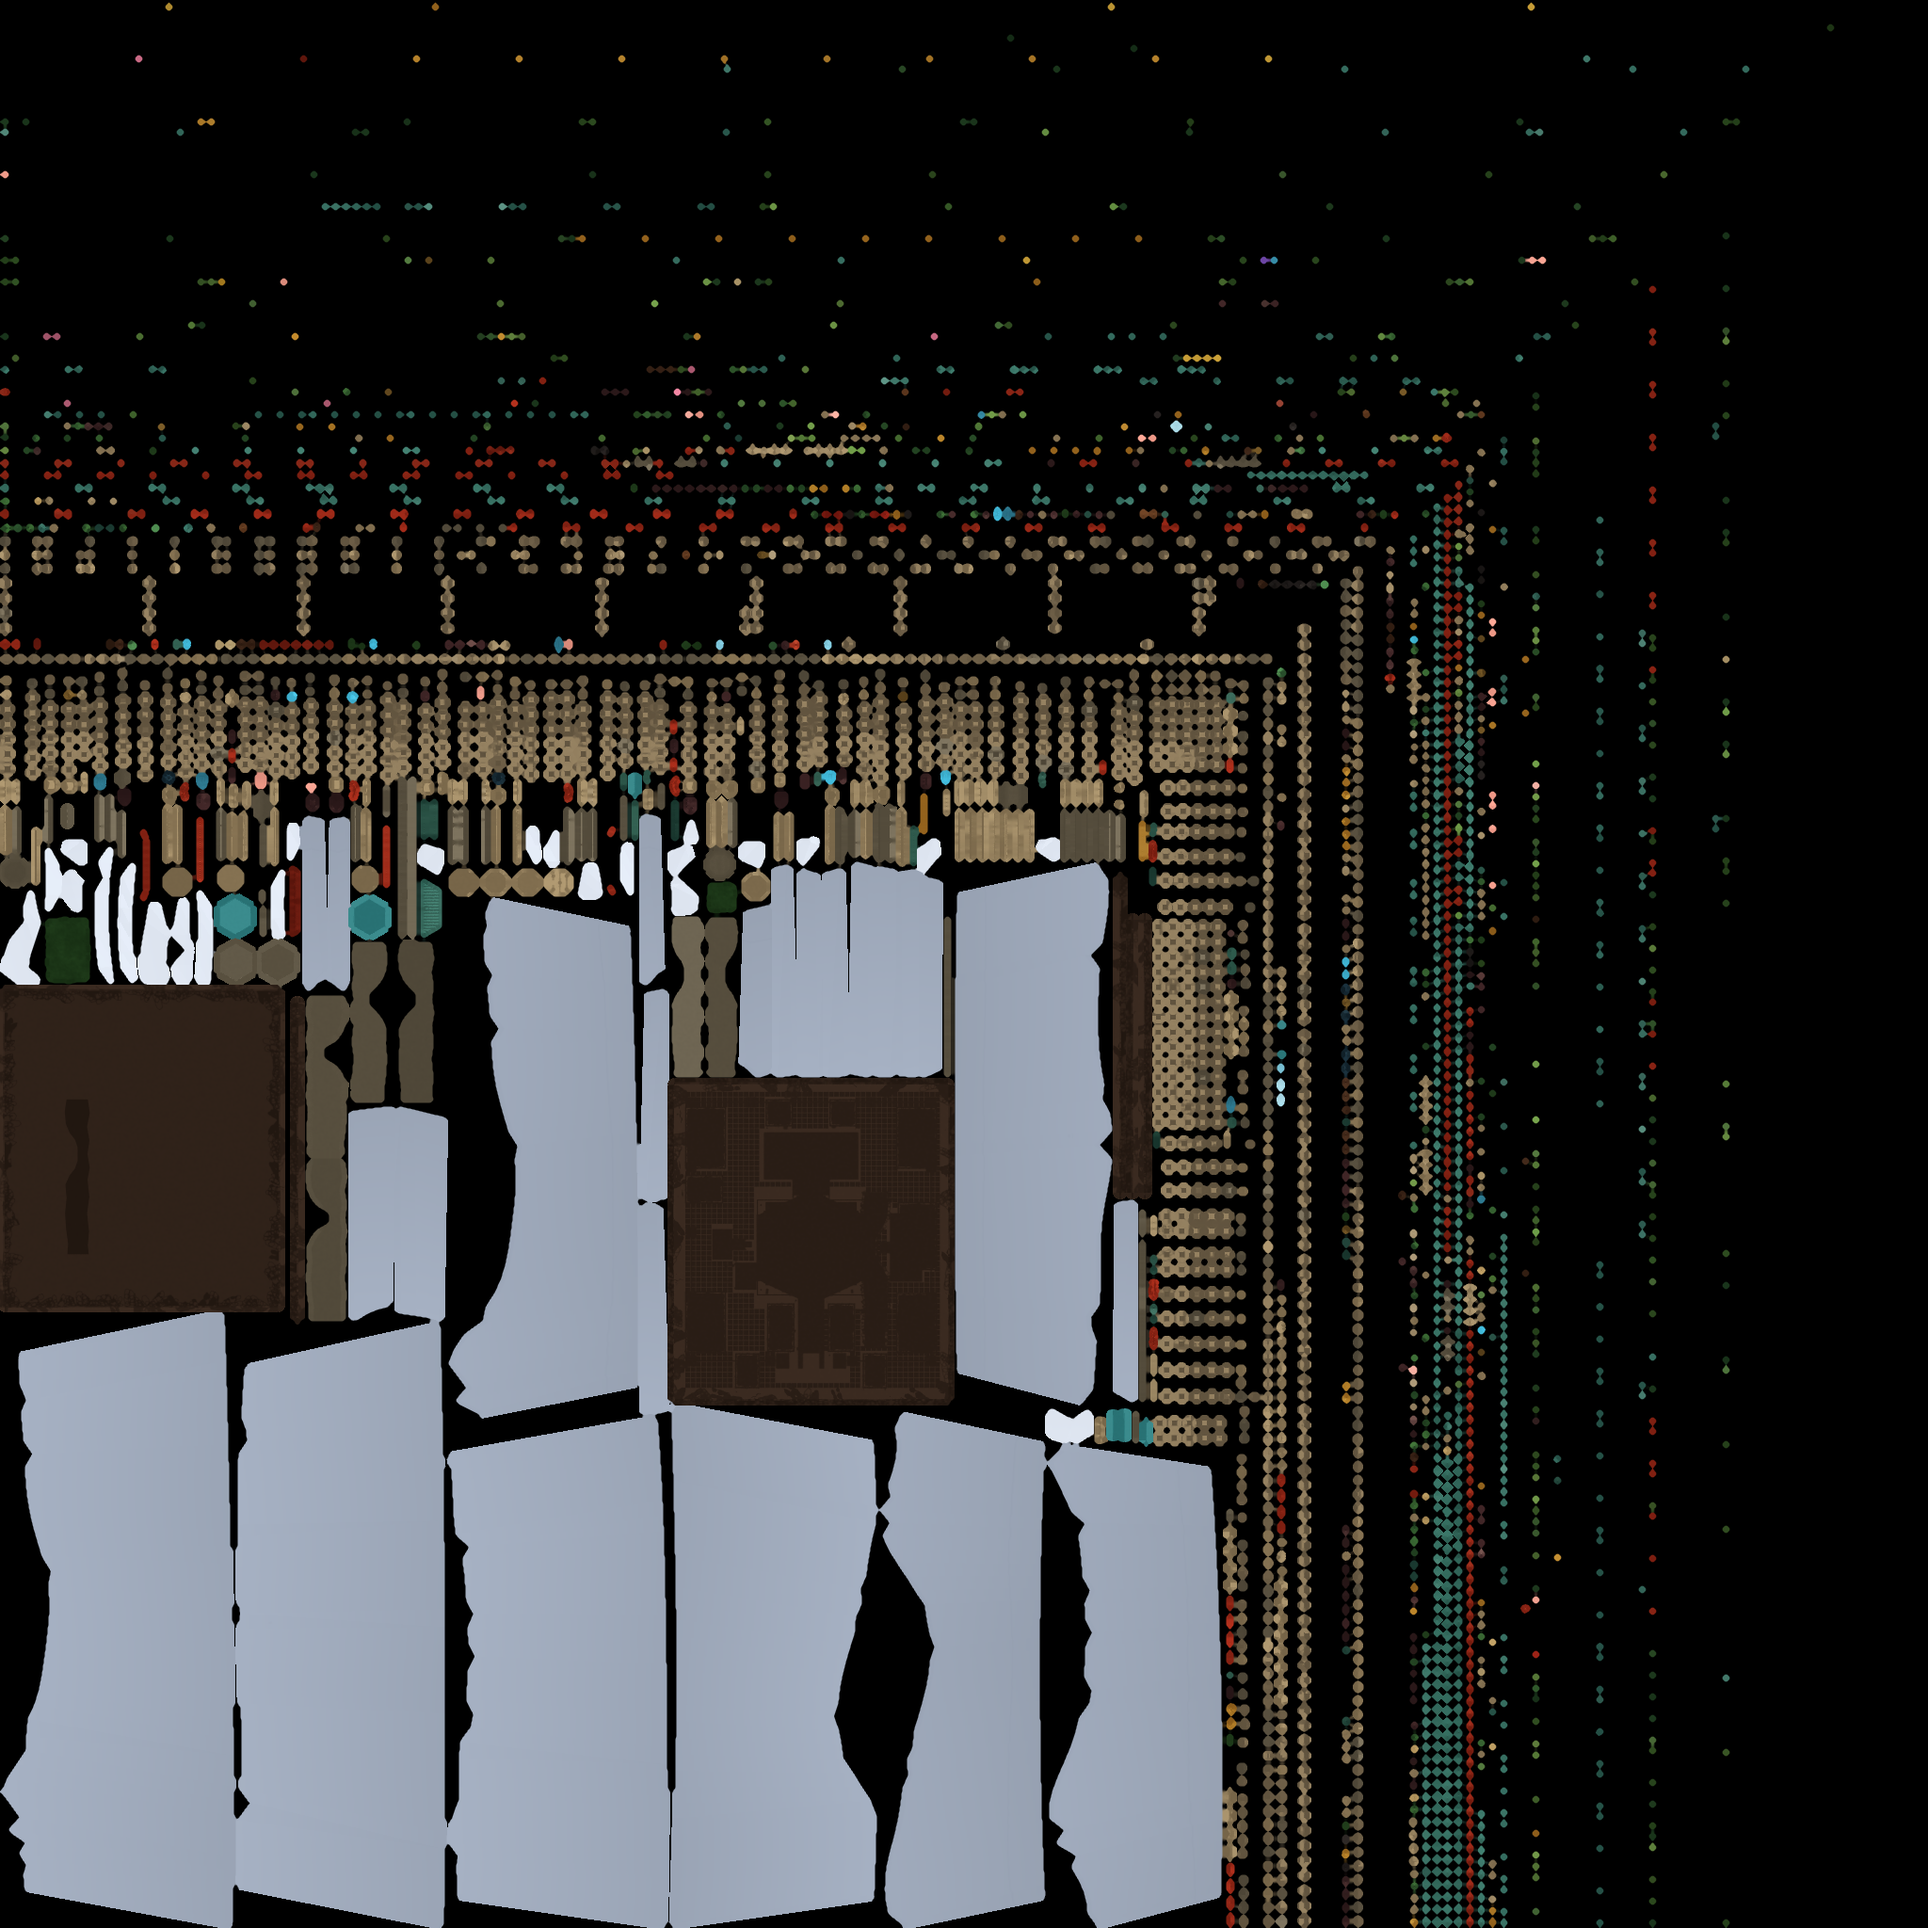
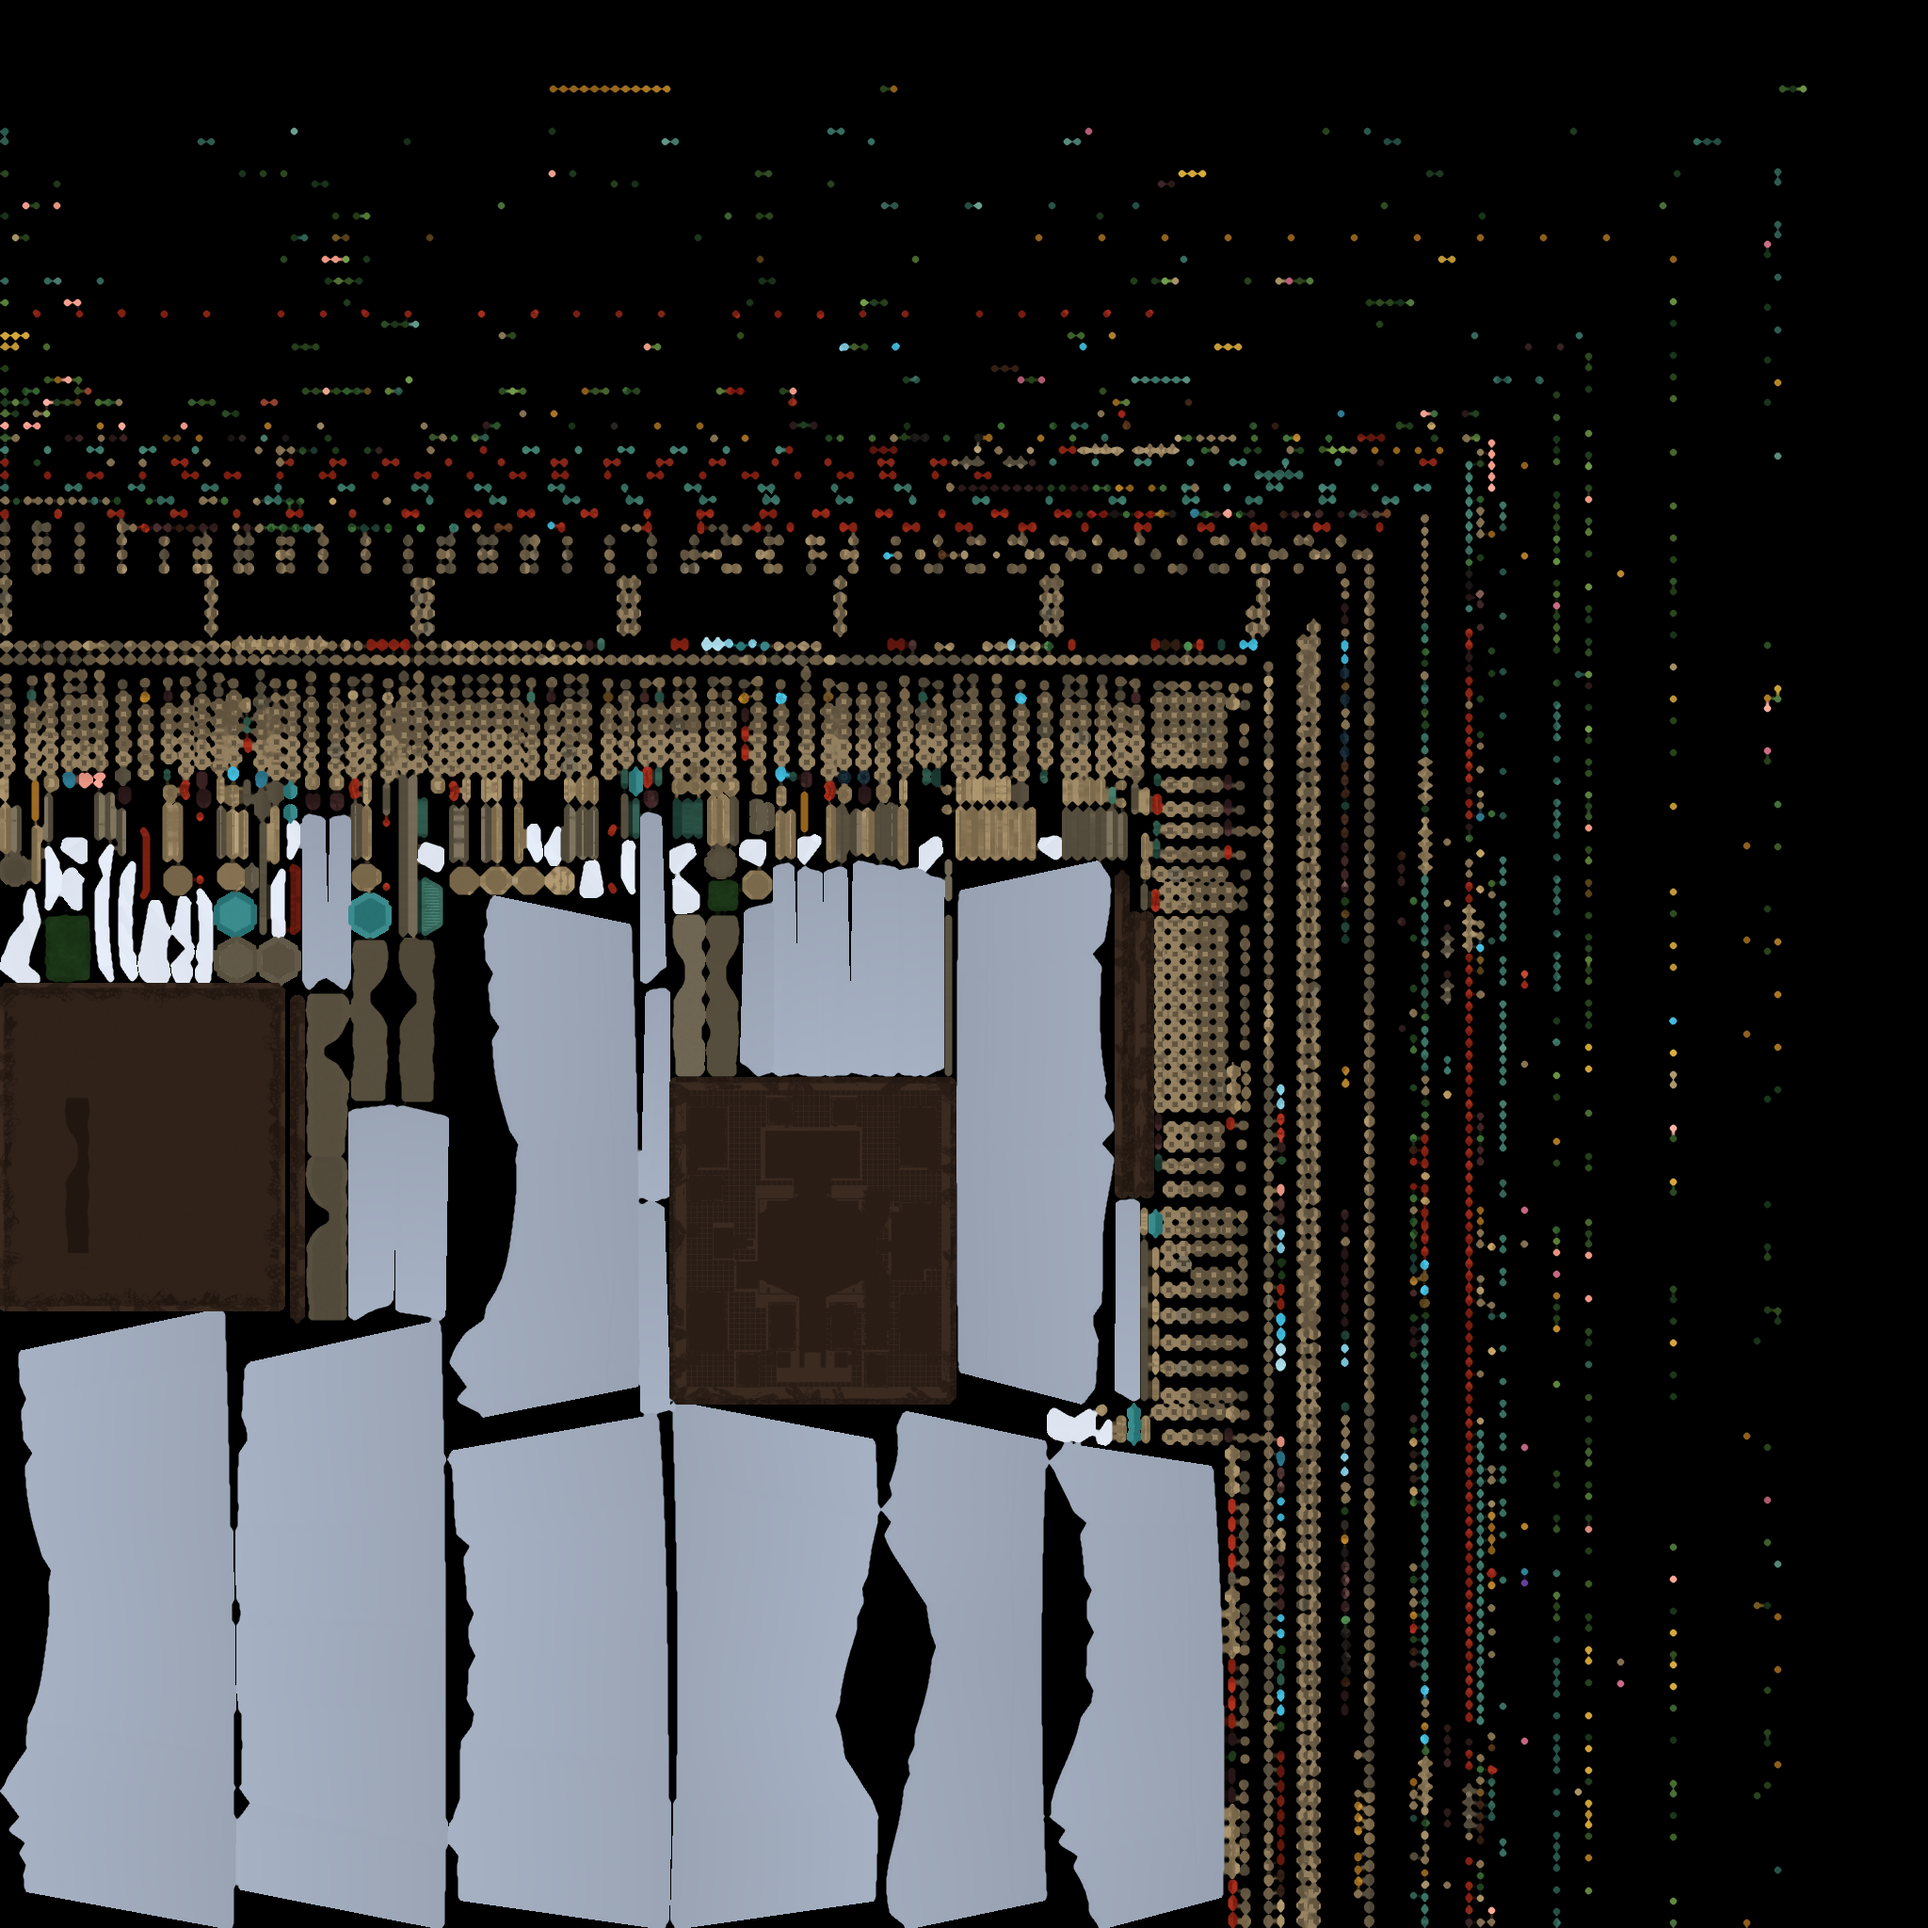
Raiz do "esta tudo cinza": a cor de vertice viajava no FBX
O canal 'rnd' existe para o BAKE - ele varia o tom peca a peca enquanto o atlas e
assado, e depois disso ja cumpriu a funcao, porque a variacao ficou gravada no PNG.
Mas ele viajava no FBX, e o Roblox MULTIPLICA a cor da MeshPart por ele. Com valor
medio em torno de 0.45, tudo chegava ao jogo escurecido pela metade.

Medido no Studio, nao suposto: PATIO_piso com TextureID vazio, sem SurfaceAppearance,
Color em branco puro (255,255,255) e material liso - e ainda assim renderizando
cinza. Nenhuma repintura no Studio corrige isso, porque o escurecimento esta dentro
da malha.

E a mesma causa da grama preta, das arvores pretas e da picareta preta que o usuario
apontou nas capturas. Eu vinha tratando como problema de atlas e de AlphaMode.

Correcao: k_export zera a camada de cor de vertice em BRANCO nas copias de export.
As malhas originais ficam intactas, porque o proximo bake ainda precisa do 'rnd'.

Tambem nesta rodada, no Studio (ainda nao portado para os geradores):
- 163 malhas guardadas em ServerStorage.BIBLIOTECA_MURIM, separadas por familia
- relva geometrica, lajes de calcada e aneis de serra/nevoa removidos do lobby
- chao em Part chapada, juntas de calcamento e aro do hexagono desenhado
- peca invisivel deixou de lancar sombra dentro do lobby

diff --git a/lobby_area/murim/kit/run_bg.py b/lobby_area/murim/kit/run_bg.py
@@ -88,6 +88,33 @@ try:
             for atlas in quais:
                 P(k_materiais.bake(atlas, objs_de(atlas), passe, size=size, samples=spp, device='CPU'))
         if etapa == 'lobby_final':
+            # CONFERENCIA ANTES DE FINALIZAR: amostra o pixel do atlas sob as UVs de cada malha e
+            # denuncia quem ficou PRETO. Uma malha pode existir, ter UV valida, estar no atlas certo e
+            # ainda assim nao ter sido assada - foi o que aconteceu com a picareta, cujas tintas vieram
+            # de um .blend anexado e colidiram de nome (P_ouro -> P_ouro.001), virando materiais sem no
+            # de bake. Nada no pipeline reclamou; so apareceu no jogo, preta. Esta medida pega isso.
+            pretas = []
+            for atlas, nomes in sorted(ATL.items()):
+                img = bpy.data.images.load(os.path.join(KIT, 'tex', '%s_color.png' % atlas), check_existing=True)
+                W, H = img.size
+                buf = [0.0] * (W * H * 4); img.pixels.foreach_get(buf)
+                for n in nomes:
+                    me = bpy.data.meshes.get(n)
+                    if me is None or me.uv_layers.active is None: continue
+                    us = [d.uv for d in me.uv_layers.active.data]
+                    passo = max(1, len(us) // 1500)
+                    escuros = tot = 0
+                    for q in us[::passo]:
+                        x = min(W - 1, max(0, int(q[0] * W))); y = min(H - 1, max(0, int(q[1] * H)))
+                        i = (y * W + x) * 4
+                        tot += 1
+                        if buf[i] + buf[i + 1] + buf[i + 2] < .01: escuros += 1
+                    if tot and escuros / float(tot) > .95: pretas.append((n, atlas, 100.0 * escuros / tot))
+            if pretas:
+                P('MALHAS PRETAS NO ATLAS (existem, mas nao foram assadas):')
+                for n, a_, pc in pretas: P('   %-26s %s  %.0f%% preto' % (n, a_, pc))
+                raise SystemExit('FINAL ABORTADO: %d malha(s) sem cor assada. Exportar assim manda peca preta para o jogo.' % len(pretas))
+            P('conferencia de cor: nenhuma malha preta nos %d atlas' % len(ATL))
             for atlas in sorted(ATL):
                 P(k_materiais.finalize(atlas, objs_de(atlas), emis=True))
             for o in bpy.data.objects:

diff --git a/lobby_area/murim/kit/k_lobby.py b/lobby_area/murim/kit/k_lobby.py
@@ -1159,7 +1159,7 @@ PIC_MALHA = 'MON_picareta_aurora'
 PIC_ALT = 19.28                                       # altura da malha como esta no arquivo
 
 def minha_picareta(H=19.0):
-    import os
+    import os, re as _re
     B = Builder('LOB_picareta_aurora', 777)
     cam = os.path.join(os.path.dirname(os.path.abspath(__file__)), PIC_BLEND)
     nome = PIC_MALHA
@@ -1173,7 +1173,17 @@ def minha_picareta(H=19.0):
     lay = fonte.loops.layers.color.get('rnd')
     for idx, mat in enumerate(me.materials):
         if mat is None: continue
-        key = mat.name[2:] if mat.name.startswith('P_') else mat.name
+        # SUFIXO DE COLISAO. Ao anexar a malha, o Blender traz junto as tintas dela; como P_ouro,
+        # P_aco etc. ja existem neste arquivo, as anexadas entram como P_ouro.001, P_aco.001...
+        # Derivar a chave do nome cru pedia a tinta 'ouro.001', que nao existe no dicionario - e
+        # paint_mat, em vez de falhar, ACHAVA o material anexado (P_ouro.001) e o devolvia. Esse
+        # material nao tem no de bake, entao o atlas ficava preto exatamente sob esta malha e a
+        # picareta saiu toda preta no jogo. Medido: 100% dos pixels amostrados sob as UVs dela em
+        # A_LOBBY_3_color.png vinham (0,0,0), contra 0% numa peca de controle.
+        key = _re.sub(r'\.\d+$', '', mat.name[2:] if mat.name.startswith('P_') else mat.name)
+        if key not in PAINTS:
+            raise SystemExit('PICARETA: tinta desconhecida %r (material %r). Sem isto ela assa preta.'
+                             % (key, mat.name))
         faces = [f for f in fonte.faces if f.material_index == idx]
         if not faces: continue
         bm = bmesh.new()

diff --git a/lobby_area/murim/kit/k_export.py b/lobby_area/murim/kit/k_export.py
@@ -37,6 +37,24 @@ def export_kit(atlas_map, place, name='KIT_FORJA_CELESTE'):
                          'Uma montagem que perde peca em silencio e pior que um erro.'
                          % (len(faltando), ', '.join(faltando[:6]), len(sem_malha), ', '.join(sem_malha[:6])))
     for ob in bpy.context.view_layer.objects: ob.select_set(False)
+    # COR DE VERTICE NAO VAI PARA O JOGO.
+    # O canal 'rnd' existe para o BAKE: ele varia o tom peca a peca enquanto o atlas e assado, e
+    # depois disso ja cumpriu a funcao - a variacao esta gravada no PNG. Se ele viajar no FBX, o
+    # Roblox MULTIPLICA a cor da MeshPart por ele, e como o valor medio e ~0.45, tudo chega ao jogo
+    # escurecido pela metade. Foi a causa de "esta tudo cinza/preto": medido no Studio com a peca em
+    # TextureID vazio, sem SurfaceAppearance e Color branco puro, e mesmo assim cinza.
+    # Aqui a camada e zerada em BRANCO nas copias de export (as malhas originais ficam intactas,
+    # porque o proximo bake ainda precisa do 'rnd').
+    zeradas = 0
+    for e in objs:
+        me = e.data
+        for cam in list(me.color_attributes):
+            try:
+                for d in cam.data: d.color = (1.0, 1.0, 1.0, 1.0)
+                zeradas += 1
+            except Exception:
+                pass
+    print('EXPORT: cor de vertice zerada em %d camadas (senao o Roblox escurece tudo pela metade)' % zeradas)
     lc = bpy.context.view_layer.layer_collection.children.get('EXPORT')
     if lc: lc.exclude = False
     for e in objs: e.select_set(True)
